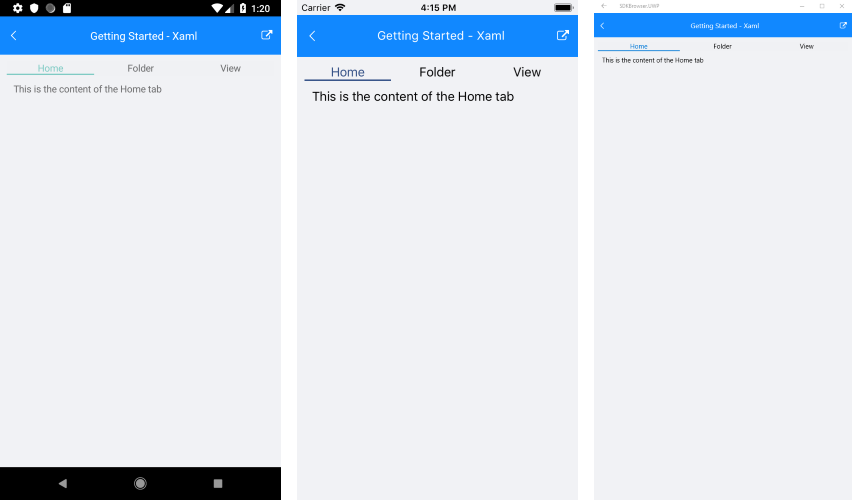
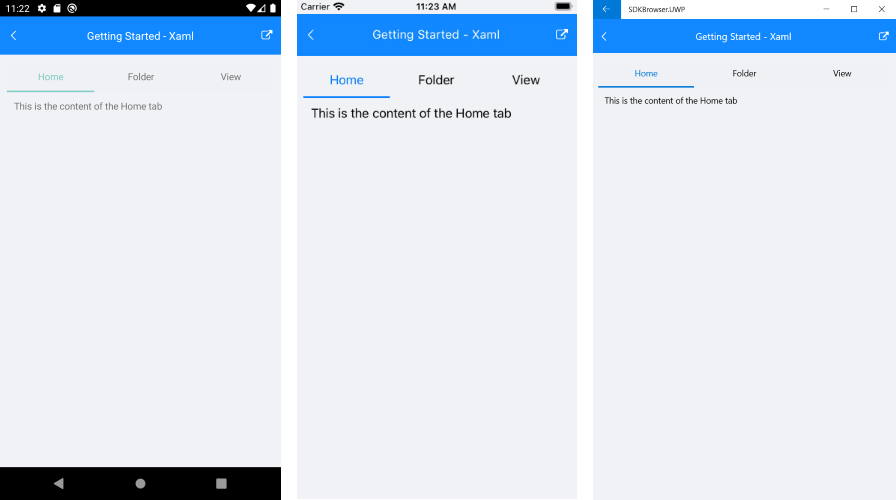
change tabview images and add default header control template

diff --git a/controls/tabview/tabview-header-item.md b/controls/tabview/tabview-header-item.md
@@ -17,7 +17,44 @@ The **RadTabView** control exposes a **Header** property which you can use to mo
 
 You can use the **HeaderPosition** property of RadTabView to control the position of the header. The property allows you to place the header at the **top** of the control where is by default or at the **bottom**, under the content of the selected tab. 
 
-## Custom TabViewHeader 
+## Default TabViewHeader ControlTemplate
+
+Here is the default Header ControlTemplate definition:
+
+```XAML
+<ControlTemplate x:Key="HeaderControlTemplate" >
+    <Grid BackgroundColor="Transparent">
+        <BoxView IsVisible="{TemplateBinding IsSelected}"
+                    BackgroundColor="{TemplateBinding SelectedColor}"
+                    VerticalOptions="End"
+                    HeightRequest="2" />
+        <Label Text="{TemplateBinding Text}" 
+                Margin="0, 0, 0, 2" 
+                VerticalOptions="Center" 
+                HorizontalOptions="Center" />
+    </Grid>
+</ControlTemplate>
+```
+
+The TabView definition and how to control template is set to the TabView Header
+
+```XAML
+<telerikPrimitives:RadTabView x:Name="tabView"
+                                HeaderPosition="Top">
+    <telerikPrimitives:RadTabView.Items>
+        <telerikPrimitives:TabViewItem>
+            <telerikPrimitives:TabViewItem.Header>
+                <telerikPrimitives:TabViewHeaderItem Text="Tab 1" 
+                                                     ControlTemplate="{StaticResource HeaderControlTemplate}" />
+            </telerikPrimitives:TabViewItem.Header>
+        </telerikPrimitives:TabViewItem>
+        <telerikPrimitives:TabViewItem HeaderText="Tab 2"/>
+        <telerikPrimitives:TabViewItem HeaderText="Tab 3"/>
+    </telerikPrimitives:RadTabView.Items>
+</telerikPrimitives:RadTabView>
+```
+
+## Customize the TabViewHeader control template: 
 
 You can customize the appearance of each **TabViewHeaderItem** by replacing its default template with one of your choice. Below you can find a sample scenario where a custom control template is declared and set to the **ControlTemplate** property of the **TabViewHeaderItem**. 
 
@@ -44,8 +81,8 @@ If there are too many items in the tabview control and they cannot fit into the 
 
 This example demonstrates how to replace the default header of the RadTabView control and change its background. Also, how to set the header position to display the tab strip area at bottom.
 
-<snippet id='tabview-features-tabviewitem-xaml'/>
-<snippet id='tabview-features-tabviewitem-csharp'/>
+<snippet id='tabview-features-tabviewheader-xaml'/>
+<snippet id='tabview-features-tabviewheader-csharp'/>
 
 Additionally, you can work with the already assigned header instead of replacing it with a new one. For example - `tabView.Header.BackgroundColor = Color.Green`. 
 
